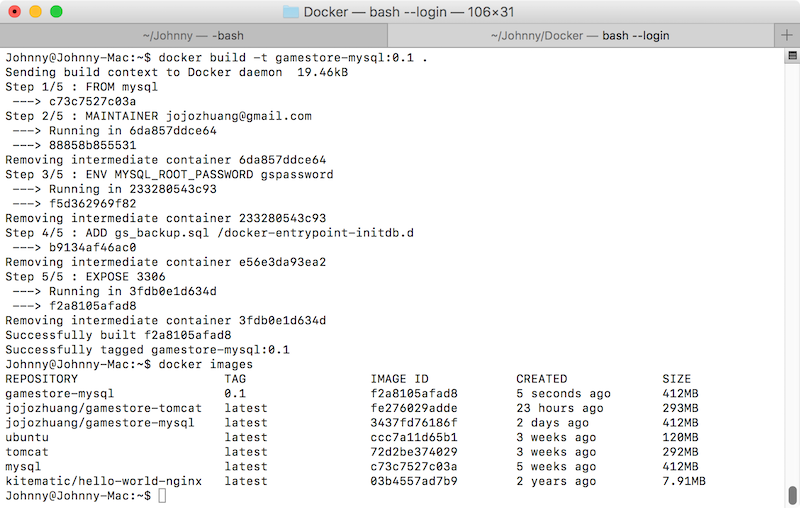
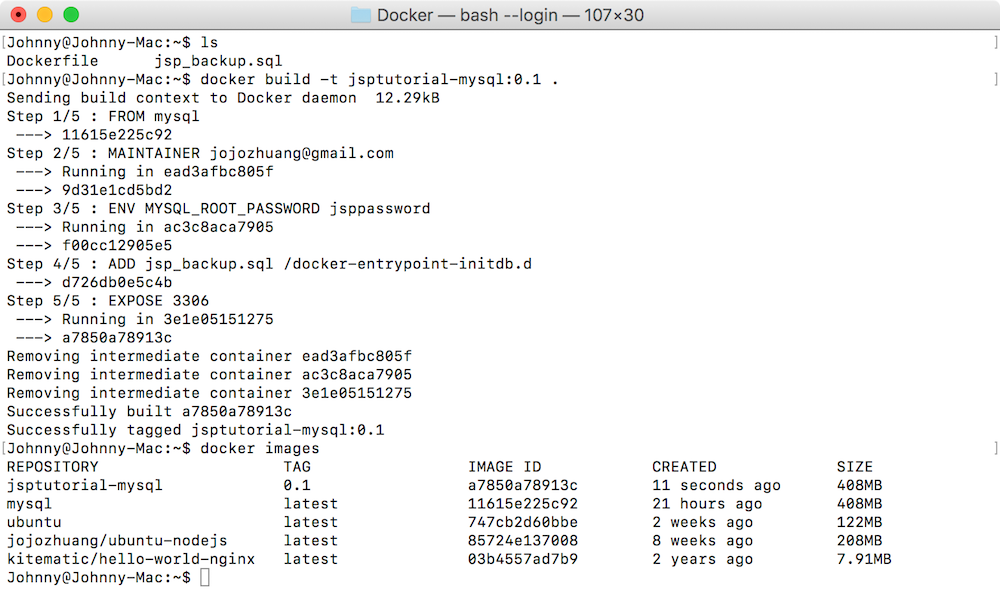
jsp mysql container

diff --git a/_posts/2016-09-15-creating-mysql-image-with-docker-file.md b/_posts/2016-09-15-creating-mysql-image-with-docker-file.md
@@ -6,37 +6,35 @@ date: 2016-09-15
 tags: [Docker, Dockerfile, MySQL]
 ---
 
-> Tutorial for how to create Mysql image with Dockerfile.
+> Tutorial for how to create MySQL image with Dockerfile.
 
 ## 1. What is Dockerfile?
-Docker can build images automatically by reading the instructions from a Dockerfile. A Dockerfile is a text document that contains all the commands a user could call on the command line to assemble an image. Using docker build users can create an automated build that executes several command-line instructions in succession.
+Docker can build images automatically by reading the instructions from a Dockerfile. A Dockerfile is a text document that contains all the commands a user could call on the command line to assemble an image. By using 'docker build', users can create an automated build that executes several command-line instructions in succession.
 
 ## 2. What We've Done Until Now?
-In posting [Using MySQL Container for JSP Application]({% link _posts/2016-09-13-using-mysql-container-for-jsp-application.md %}), we created a mysql container to store data for our Game Store application.  
-Previously, we used the following command to create mysql container.
+In posting [Using MySQL Container for JSP Application]({% link _posts/2016-09-13-using-mysql-container-for-jsp-application.md %}), we created a mysql container to store data for our JSP Tutorial application. Previously, we used the following command to create mysql container.
 ```sh
-$ docker run --detach --name=gsmysql --env="MYSQL_ROOT_PASSWORD=gspassword" --publish 6603:3306 mysql
+$ docker run --detach --name=jspmysql --env="MYSQL_ROOT_PASSWORD=jsppassword" --publish 6603:3306 mysql
 ```
 What is this command doing?
-* Create a mysql container named gsmysql.
-* Set environment variable MYSQL_ROOT_PASSWORD to gspassword.
-* Expose 3306 for outside world to connect to the mysql database.
+* Create a mysql container named `jspmysql`.
+* Set environment variable MYSQL_ROOT_PASSWORD to `jsppassword`.
+* Expose 3306 and map to `6603` for outside world to connect to this MySQL database.
 
-In addition, we manually restored the database, and created tables for the new database.
+In addition, we manually created the database `jsptutorial` and table `Product`.
+```sh
+$ mysqladmin -u root -p create jsptutorial
+$ mysql -u root -p jsptutorial < jsp_backup.sql
+```
 
-In this posting, we will use Dockerfile to simplify the way how to create mysql container for our Game Store application.
+In this posting, we will use Dockerfile to simplify the way how to create MySQL container for our JSP Tutorial application.
 
 Before moving forward, make sure you've already setup folder ~/Documents/gstomcat in local machine, which will be volumed to tomcat container later. And all necessary jsp files and classes are put into this folder.
 ![MIME Type](/public/pics/2016-09-15/foldermapping.png)  
 
-## 3. Creating Mysql Image with Dockerfile
-### 3.1 Backing Up Mysql Schema
-Use mysqldump command to dump Mysql schema to a file. You can download the backup file from [My GitHub](https://github.com/jojozhuang/Portfolio/blob/master/GameStoreMysql/document/gs_backup.sql), and put it to the same directory of Dockerfile.
-```sh
-$ mysqldump -u root -p gamestore > gs_backup.sql
-```
-### 3.2 Creating Docker File
-Create docker file in any directory of your local machine. The name of the docker file must be Dockerfile.
+## 3. Creating MySQL Image with Dockerfile
+### 3.1 Creating Docker File
+Create docker file in any directory of your local machine. The name of the docker file must be `Dockerfile`.
 ```sh
 $ cd ~/Johnny
 $ mkdir Docker
@@ -45,30 +43,33 @@ $ vim Dockerfile
 ```
 Edit Dockerfile, fill with following content.
 ```sh
-#Create Mysql Image for Game Store Application
+#Create MySQL Image for JSP Tutorial Application
 FROM mysql
 MAINTAINER jojozhuang@gmail.com
 
-ENV MYSQL_ROOT_PASSWORD gspassword
-ADD gs_backup.sql /docker-entrypoint-initdb.d
+ENV MYSQL_ROOT_PASSWORD jsppassword
+ADD jsp_backup.sql /docker-entrypoint-initdb.d
 
 EXPOSE 3306
-
 ```
 The following points need to be noted about the above file.
 * The first line is a comment. You can add comments to the Docker File with the help of the # command
 * The FROM keyword tells which base image you want to use. In our example, we are creating an image from the mysql image.
 * The next command is the person who is going to maintain this image.
-* The ENV command is used to set environment variable. We set MYSQL_ROOT_PASSWORD to gspassword for mysql database.
-* The ADD command copy the database backup file to /docker-entrypoint-initdb.d directory in the Docker container. The docker-entrypoint.sh file will run any files in this directory ending with ".sql" against the MySQL database.
-* The EXPOSE command exposes port of the image.
+* The ENV command is used to set environment variable. We set MYSQL_ROOT_PASSWORD to `jsppassword` for MySQL database.
+* The ADD command copy the database backup file to /docker-entrypoint-initdb.d directory in the Docker container. The docker-entrypoint.sh file will run any files in this directory ending with ".sql" against the MySQL database. In our example, we have only one sql script file `jsp_backup.sql`.
+* The EXPOSE command exposes port `3306` of the image.
+
+### 3.2 Getting MySQL Backup File
+Download the backup file `jsp_backup.sql` from [My GitHub](https://github.com/jojozhuang/Portfolio/blob/master/GameStoreMysql/document/gs_backup.sql), and put it to the same directory with Dockerfile.
+![MIME Type](/public/pics/2016-09-15/dockerfiles.png)  
 
 ### 3.3 Creating Image with Dockerfile
-Open Docker terminal, navigate to the folder where the Dockerfile and Mysql backup file locates. Run the following command.
+Open Docker terminal, navigate to the folder where the Dockerfile and MySQL backup file locates. Run the following command.
 ```sh
-$ docker build -t gamestore-mysql:0.1 .
+$ docker build -t jsptutorial-mysql:0.1 .
 ```
-Here, gamestore-mysql is the name we are giving to the Image and 0.1 is the tag number.
+Here, `jsptutorial-mysql` is the name we are giving to the Image and 0.1 is the tag number.
 
 Check whether the image is created.
 ```sh
@@ -81,7 +82,7 @@ As you see, the new image is created with tag 0.1.
 ### 4.1 Running Container
 In docker terminal, run the following command.
 ```sh
-$ docker run --detach --name=gsmysql --publish 6603:3306 gamestore-mysql:0.1
+$ docker run --detach --name=jspmysql --publish 6603:3306 jsptutorial-mysql:0.1
 ```
 Notice we don't need to set the environment variable MYSQL_ROOT_PASSWORD any more.
 ### 4.2 Verifying Container in Kitematic
@@ -90,12 +91,15 @@ A Mysql container named gsmysql is running now. Notice, it's source image is 'ga
 Port 3306 is also exposed.
 ![MIME Type](/public/pics/2016-09-15/ports.png)  
 
-### 4.3 Verifying Game Store Website
-Open the following link in web browser. Our Game Store is running now. Then, click the Login link on the top right of the page.
-* [http://192.168.99.100:31020/gamestore/index.jsp](http://192.168.99.100:31020/gamestore/index.jsp)
+### 4.3 Verifying From MySQL Workbench
+![MIME Type](/public/pics/2016-09-15/workbench.png)  
+
+### 4.4 Verifying JSP Tutorial Website
+Open the JSP project which we used for [Using MySQL Container for JSP Application]({% link _posts/2016-09-13-using-mysql-container-for-jsp-application.md %}) in Eclipse, launch itthe following link in web browser. Our Game Store is running now.
+* [http://localhost:8080/JSPTutorialContainer/productlist.jsp](http://localhost:8080/JSPTutorialContainer/productlist.jsp)
 
 Type 'customer' for user name, type 'customer' for password, and click Login button.
-![MIME Type](/public/pics/2016-09-15/login.png)  
+![MIME Type](/public/pics/2016-09-15/productlist.png)  
 Try to add some item to shopping cart and place the order. Order should be created.
 
 ## 5. Source Files
